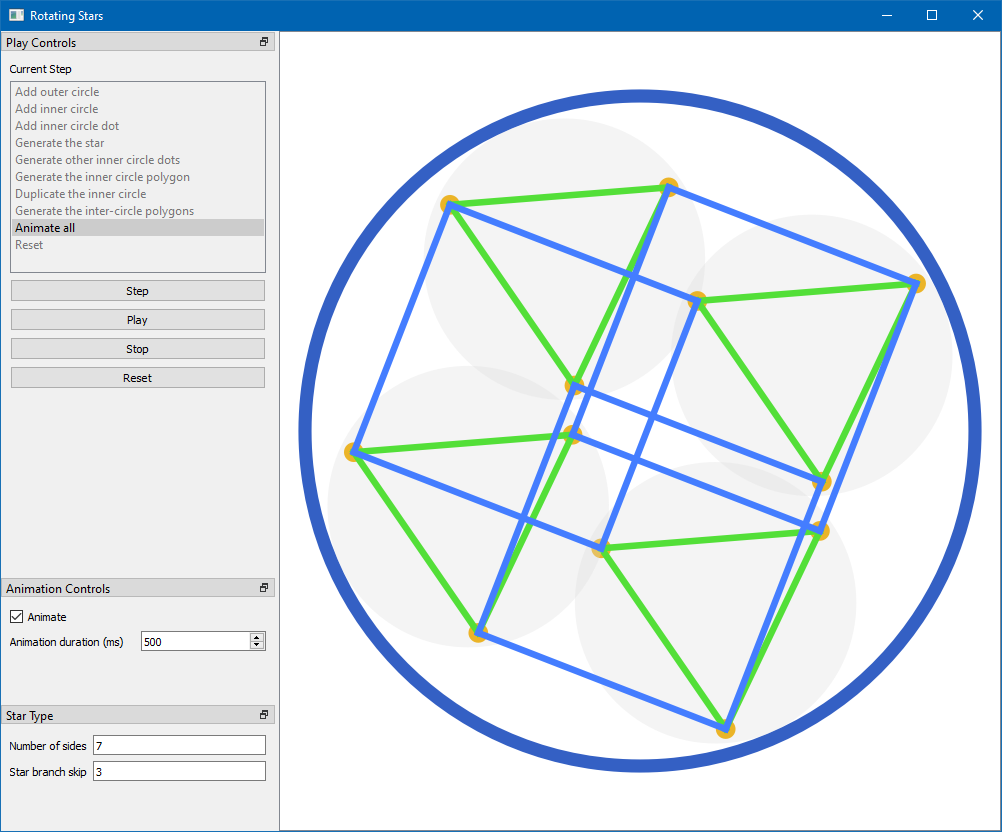
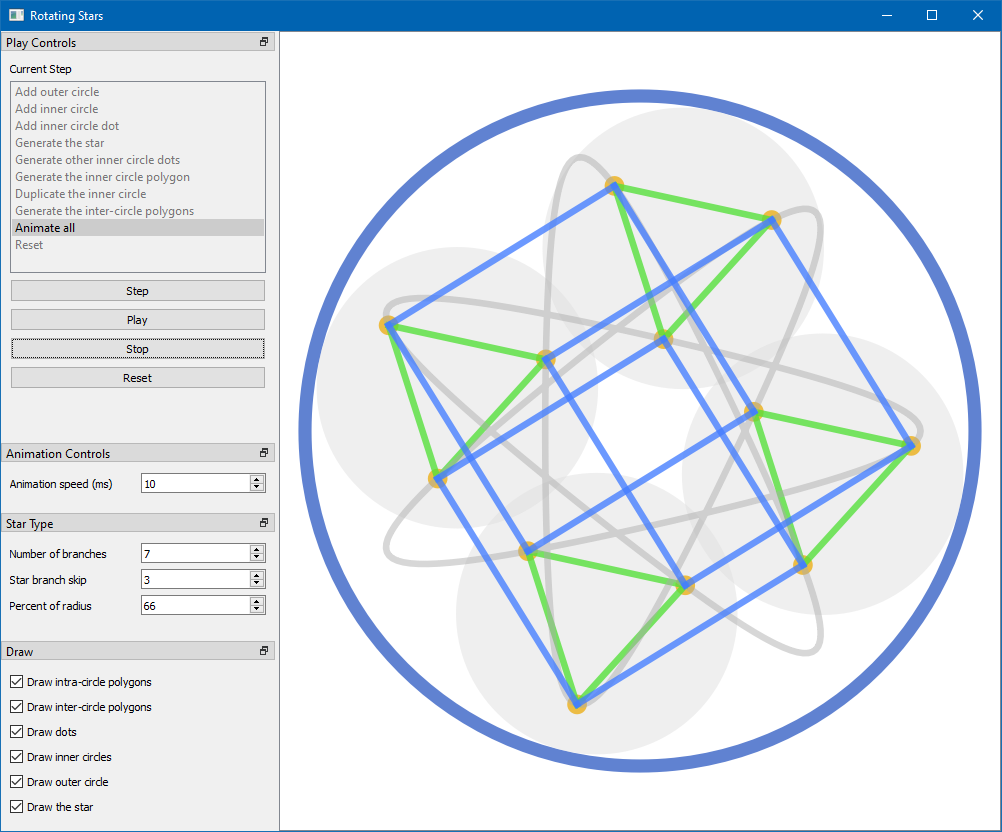
Added control of the inner circle dot on its radius.

diff --git a/main_qt.py b/main_qt.py
@@ -7,7 +7,7 @@ app = create_app()
 star = rotating_stars.star()
 options = rotating_stars.star_options()
 
-timer_delay = 20
+timer_delay = 10
 timer = create_timer(timer_delay)
 timer.setSingleShot(False)
 playing = False
@@ -27,13 +27,14 @@ add_stretch(control_layout)
 
 anim_dock, anim_layout = create_dock("Animation Controls")
 
-delay_box = create_number_range("Animation duration (ms)", 0, 10000, timer_delay, anim_layout)
+delay_box = create_number_range("Animation speed (ms)", 0, 10000, timer_delay, anim_layout)
 add_stretch(anim_layout)
 
 star_dock, star_layout = create_dock("Star Type")
 
-sides_box = create_number_text("Number of sides", 3, 100, star.sides, star_layout)
-skip_box = create_number_text("Star branch skip", 1, 100, star.skip, star_layout)
+sides_box = create_number_range("Number of branches", 3, 100, star.sides, star_layout)
+skip_box = create_number_range("Star branch skip", 1, 100, star.skip, star_layout)
+radius_ratio_box = create_number_range("Percent of radius", 0, 1000, 90, star_layout)
 add_stretch(star_layout)
 
 draw_dock, draw_layout = create_dock("Draw")
@@ -81,25 +82,36 @@ def on_delay_changed(value):
     animator.anim_duration = int(value)
     timer.setInterval(int(value))
 
-@sides_box.textChanged.connect
+@sides_box.valueChanged.connect
 def on_sides(value):
     try:
         new_sides = int(value)
     except:
         return
     global star
-    star = rotating_stars.star(new_sides, star.skip)
+    star = rotating_stars.star(new_sides, star.skip, star.inner_circle_dot_ratio)
     animator.star = star
     animator.reset()
 
-@skip_box.textChanged.connect
+@skip_box.valueChanged.connect
 def on_skip(value):
     try:
         new_skip = int(value)
     except:
         return
     global star
-    star = rotating_stars.star(star.sides, new_skip)
+    star = rotating_stars.star(star.sides, new_skip, star.inner_circle_dot_ratio)
+    animator.star = star
+    animator.reset()
+
+@radius_ratio_box.valueChanged.connect
+def on_radius_ratio_changed(value):
+    try:
+        new_value = float(value)
+    except:
+        return
+    global star
+    star = rotating_stars.star(star.sides, star.skip, new_value / 100.)
     animator.star = star
     animator.reset()
 

diff --git a/rotating_stars/qt/qt_drawings.py b/rotating_stars/qt/qt_drawings.py
@@ -13,13 +13,13 @@ dot_size = line_width * 1.5
 tile_size = 10.
 
 no_color = QColor(0, 0, 0, 0)
-orange_color = QColor(235, 180, 40, 240)
-blue_color = QColor(68, 125, 255, 220)
+orange_color = QColor(235, 180, 40, 220)
+blue_color = QColor(68, 125, 255, 200)
 dark_blue_color = blue_color.darker(130)
-green_color = QColor(83, 223, 56, 220)
+green_color = QColor(83, 223, 56, 200)
 black_color = QColor(0, 0, 0)
 cyan_color = QColor(30, 190, 220)
-gray_color = QColor(220, 220, 220, 80)
+gray_color = QColor(220, 220, 220, 120)
 dark_gray_color = gray_color.darker(130)
 red_color = QColor(255, 84, 46)
 dark_red_color = red_color.darker(130)

diff --git a/rotating_stars/star.py b/rotating_stars/star.py
@@ -2,11 +2,11 @@ class star:
     """
     Describes a rotating stars.
     """
-    def __init__(self, sides: int = 7, skip: int = 3):
+    def __init__(self, sides: int = 7, skip: int = 3, ratio = 0.9):
         self.sides = sides
         self.skip = skip
         self.inner_circle_ratio = float(skip) / float(sides)
-        self.inner_circle_dot_ratio = 0.9
+        self.inner_circle_dot_ratio = ratio
 
 class star_options:
     """
